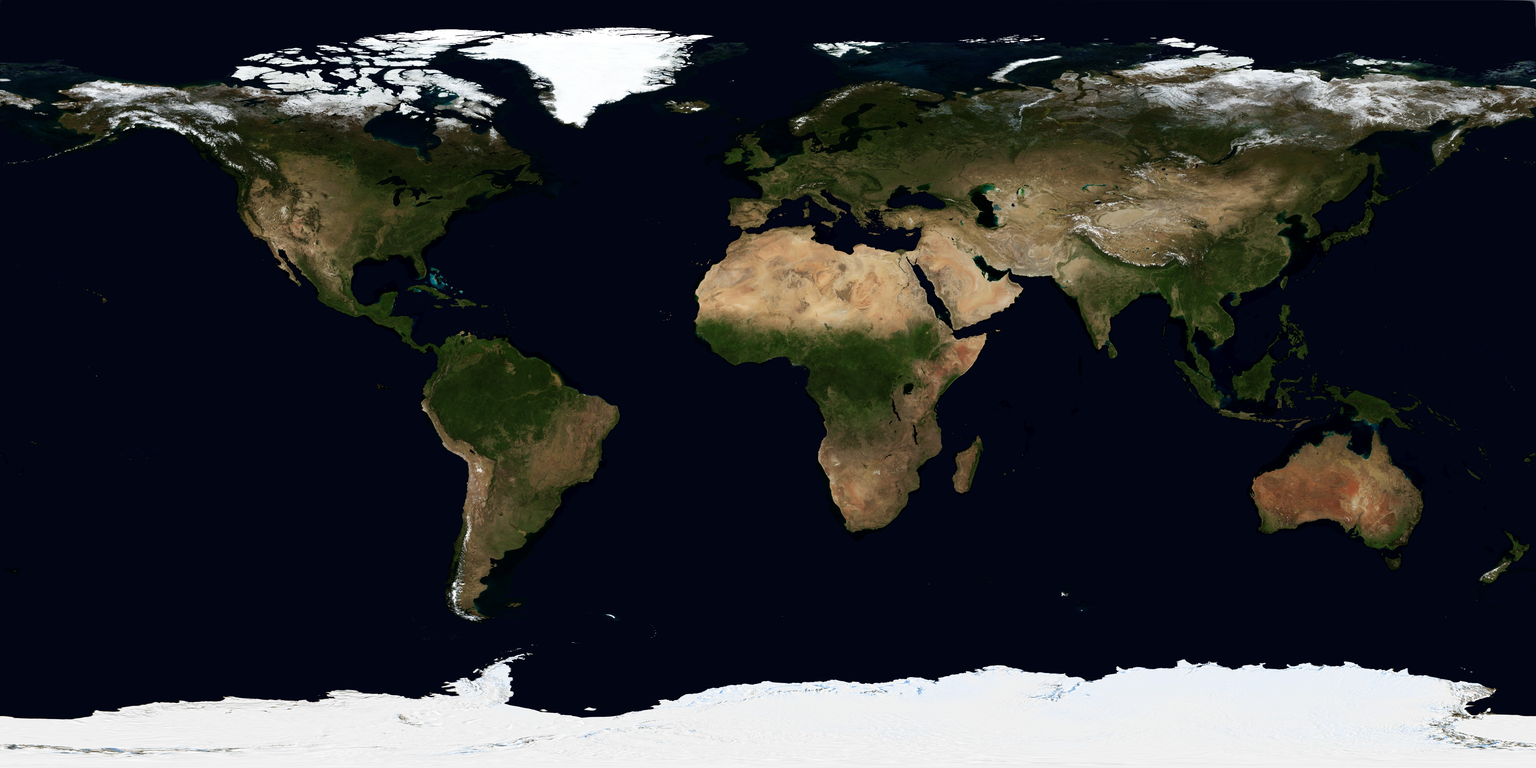
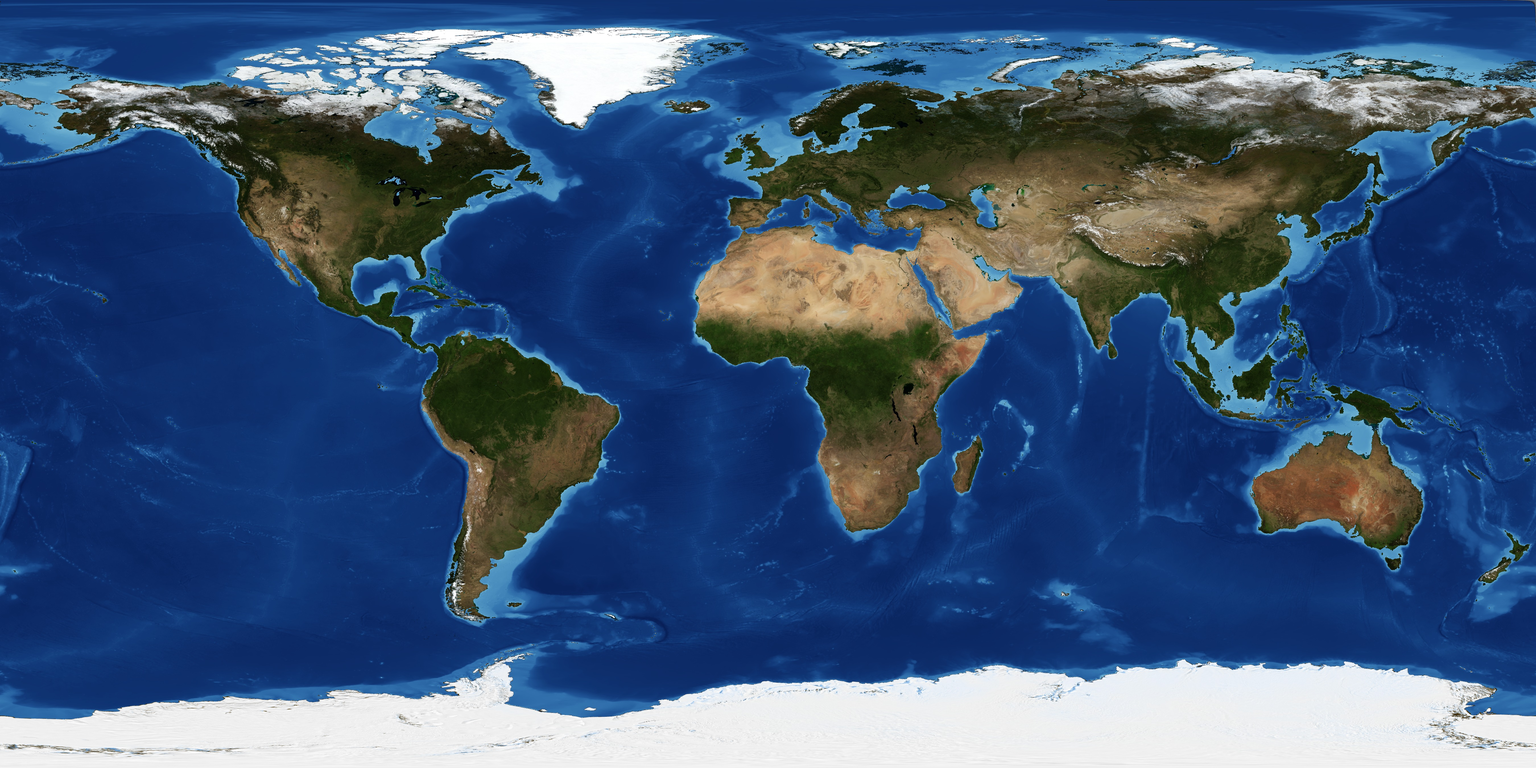
Give the Blue Marble basemap an ocean
The oceans were black because the supplied file has no ocean in it. It is
NASA's land-surface product: over open water it carries a flat fill of
exactly (2, 5, 20), across 58% of the image. Nothing was wrong with the
lighting or the conversion -- there was simply no data there.

The ocean is now painted from the GEBCO bathymetry the viewer already
ships, so its colour follows depth: pale over the shelves and banks,
deep navy over the abyssal plains and trenches. That reads as an ocean
rather than as one flat blue, and it is the project's own data, so no new
dependency and no new download -- the colour is baked into the texture.

The fill is only half the story. Coastal and shelf seas -- the North Sea,
the Channel, the Baltic, the Gulf -- carry real radiance instead, and it
is very dark: luminance 6 to 20, against 27 for the fill itself. A first
pass matching the fill exactly left them black while the water around
them turned blue. They are caught by being both dark and below sea level,
a test with a lot of room in it: the darkest land in the image is Congo
rainforest at 84, and the Netherlands -- the case a bathymetry-only test
would flood -- reads 123 at +4 m and stays land.

Land is untouched, including the shallow-water colour the product does
carry in places like the Bahamas banks. Near-black pixels fall from 58.4%
to 1.0%.

Kept as a script rather than done by hand, so replacing either input is a
re-run.

diff --git a/GeoID_GIS/viewer/earth-manifest.js b/GeoID_GIS/viewer/earth-manifest.js
@@ -1,5 +1,5 @@
     const startupStatusNode = document.getElementById("status");
-    const manifest = {"planet":{"axial_tilt_deg":23.44},"texture":{"path":"assets/blue-marble-Aug8km.jpg?v=20260809","width":5400,"source_page_url":"https://science.nasa.gov/3d-resources/earth-a/"},"elevation":{"path":"/GeoID_Earth/assets/earth_elevation.png?v=20260320c","sample_path":"/GeoID_Earth/assets/earth_elevation_sampler.png?v=20260320c","encoding":"rgb24","width":4096,"height":2048,"min_m":-10930,"max_m":8627,"relief_m":19557,"source_page_url":"https://www.gebco.net/data-products/gridded-bathymetry-data#global"},"geology":{"path":"/GeoID_Earth/assets/earth_geology_sim3292.png?v=20260320c","size":[4096,2048],"description":"Derived bathymetry and topography context layer based on GEBCO 2025 relief."},"geology_layers":[{"id":"gebco-bathy-context","label":"GEBCO Relief Context","path":"/GeoID_Earth/assets/earth_geology_sim3292.png?v=20260320c","description":"Derived bathymetry and topography context overlay based on GEBCO 2025.","source_page_url":"https://www.gebco.net/data-products/gridded-bathymetry-data#global","size":[4096,2048],"default":true}],"geology_interactive":{"feature_path":"/GeoID_Earth/assets/earth_geology_features.json","size":[4096,2048],"feature_count":0},"layers":[{"id":"blue-marble","label":"Blue Marble","path":"assets/blue-marble-Aug8km.jpg?v=20260809","description":"NASA Blue Marble global composite, August, 8 km/px. Equirectangular EPSG:4326 covering -180..180 and -90..90, converted from blue-marble-Aug8km.tif.","source_page_url":"https://visibleearth.nasa.gov/collection/1484/blue-marble","size":[5400,2700],"default":true},{"id":"earth-visible","label":"Earth Surface","path":"/GeoID_Earth/assets/earth_color.jpg?v=1774036444","description":"NASA Earth surface texture basemap.","source_page_url":"https://science.nasa.gov/3d-resources/earth-a/"},{"id":"derived-hillshade","label":"GEBCO Hillshade","path":"/GeoID_Earth/assets/earth_hillshade.jpg?v=20260320c","description":"Derived hillshade generated from the GEBCO 2025 global elevation model.","source_page_url":"https://www.gebco.net/data-products/gridded-bathymetry-data#global","size":[4096,2048]},{"id":"derived-slope","label":"GEBCO Slope","path":"/GeoID_Earth/assets/earth_slope.jpg?v=20260320c","description":"Derived slope basemap generated from the GEBCO 2025 global elevation model.","source_page_url":"https://www.gebco.net/data-products/gridded-bathymetry-data#global","size":[4096,2048]}],"mineral_layers":[],"sources":{"texture_url":"https://assets.science.nasa.gov/content/dam/science/cds/3d/resources/image/earth-(a)/Earth%20(A).jpg","dem_url":"https://dap.ceda.ac.uk/bodc/gebco/global/gebco_2025/ice_surface_elevation/geotiff/gebco_2025_geotiff.zip?download=1","geology_url":"derived/from-gebco-hillshade-and-earth-texture","geology_notes_url":"https://www.gebco.net/data-products/gridded-bathymetry-data#global","geology_dmu_url":"https://www.gebco.net/data-products/gridded-bathymetry-data#global","geology_map_url":"https://www.gebco.net/data-products/gridded-bathymetry-data#global","geology_database_url":"https://www.gebco.net/data-products/gridded-bathymetry-data#global","geology_original_units_citation":"GEBCO Compilation Group (2025) GEBCO 2025 Grid, doi:10.5285/37c52e96-24ea-67ce-e063-7086abc05f29.","tes_albedo_page_url":"https://www.gebco.net/data-products/gridded-bathymetry-data#global","tes_thermal_inertia_page_url":"https://www.gebco.net/data-products/gridded-bathymetry-data#global","themis_day_ir_page_url":"https://www.gebco.net/data-products/gridded-bathymetry-data#global","themis_night_ir_page_url":"https://www.gebco.net/data-products/gridded-bathymetry-data#global","magnetic_anomaly_page_url":"https://science.nasa.gov/earth/"},"seismic":{"path":"/GeoID_Earth/assets/earth_seismic_events.json?v=1774037151","description":"Placeholder catalog; no earthquake catalog is bundled in this Earth workflow.","source_page_url":"https://earthquake.usgs.gov/"}};
+    const manifest = {"planet":{"axial_tilt_deg":23.44},"texture":{"path":"assets/blue-marble-Aug8km.jpg?v=20260809b","width":5400,"source_page_url":"https://science.nasa.gov/3d-resources/earth-a/"},"elevation":{"path":"/GeoID_Earth/assets/earth_elevation.png?v=20260320c","sample_path":"/GeoID_Earth/assets/earth_elevation_sampler.png?v=20260320c","encoding":"rgb24","width":4096,"height":2048,"min_m":-10930,"max_m":8627,"relief_m":19557,"source_page_url":"https://www.gebco.net/data-products/gridded-bathymetry-data#global"},"geology":{"path":"/GeoID_Earth/assets/earth_geology_sim3292.png?v=20260320c","size":[4096,2048],"description":"Derived bathymetry and topography context layer based on GEBCO 2025 relief."},"geology_layers":[{"id":"gebco-bathy-context","label":"GEBCO Relief Context","path":"/GeoID_Earth/assets/earth_geology_sim3292.png?v=20260320c","description":"Derived bathymetry and topography context overlay based on GEBCO 2025.","source_page_url":"https://www.gebco.net/data-products/gridded-bathymetry-data#global","size":[4096,2048],"default":true}],"geology_interactive":{"feature_path":"/GeoID_Earth/assets/earth_geology_features.json","size":[4096,2048],"feature_count":0},"layers":[{"id":"blue-marble","label":"Blue Marble","path":"assets/blue-marble-Aug8km.jpg?v=20260809b","description":"NASA Blue Marble global composite, August, 8 km/px. Equirectangular EPSG:4326 covering -180..180 and -90..90, converted from blue-marble-Aug8km.tif, with the ocean coloured from GEBCO bathymetry.","source_page_url":"https://visibleearth.nasa.gov/collection/1484/blue-marble","size":[5400,2700],"default":true},{"id":"earth-visible","label":"Earth Surface","path":"/GeoID_Earth/assets/earth_color.jpg?v=1774036444","description":"NASA Earth surface texture basemap.","source_page_url":"https://science.nasa.gov/3d-resources/earth-a/"},{"id":"derived-hillshade","label":"GEBCO Hillshade","path":"/GeoID_Earth/assets/earth_hillshade.jpg?v=20260320c","description":"Derived hillshade generated from the GEBCO 2025 global elevation model.","source_page_url":"https://www.gebco.net/data-products/gridded-bathymetry-data#global","size":[4096,2048]},{"id":"derived-slope","label":"GEBCO Slope","path":"/GeoID_Earth/assets/earth_slope.jpg?v=20260320c","description":"Derived slope basemap generated from the GEBCO 2025 global elevation model.","source_page_url":"https://www.gebco.net/data-products/gridded-bathymetry-data#global","size":[4096,2048]}],"mineral_layers":[],"sources":{"texture_url":"https://assets.science.nasa.gov/content/dam/science/cds/3d/resources/image/earth-(a)/Earth%20(A).jpg","dem_url":"https://dap.ceda.ac.uk/bodc/gebco/global/gebco_2025/ice_surface_elevation/geotiff/gebco_2025_geotiff.zip?download=1","geology_url":"derived/from-gebco-hillshade-and-earth-texture","geology_notes_url":"https://www.gebco.net/data-products/gridded-bathymetry-data#global","geology_dmu_url":"https://www.gebco.net/data-products/gridded-bathymetry-data#global","geology_map_url":"https://www.gebco.net/data-products/gridded-bathymetry-data#global","geology_database_url":"https://www.gebco.net/data-products/gridded-bathymetry-data#global","geology_original_units_citation":"GEBCO Compilation Group (2025) GEBCO 2025 Grid, doi:10.5285/37c52e96-24ea-67ce-e063-7086abc05f29.","tes_albedo_page_url":"https://www.gebco.net/data-products/gridded-bathymetry-data#global","tes_thermal_inertia_page_url":"https://www.gebco.net/data-products/gridded-bathymetry-data#global","themis_day_ir_page_url":"https://www.gebco.net/data-products/gridded-bathymetry-data#global","themis_night_ir_page_url":"https://www.gebco.net/data-products/gridded-bathymetry-data#global","magnetic_anomaly_page_url":"https://science.nasa.gov/earth/"},"seismic":{"path":"/GeoID_Earth/assets/earth_seismic_events.json?v=1774037151","description":"Placeholder catalog; no earthquake catalog is bundled in this Earth workflow.","source_page_url":"https://earthquake.usgs.gov/"}};
     window.__earthViewerManifest = manifest;
     window.__earthViewerStartup = {
       checked: false,

diff --git a/GeoID_GIS/services/basemap/build-blue-marble.py b/GeoID_GIS/services/basemap/build-blue-marble.py
@@ -1,0 +1,118 @@
+#!/usr/bin/env python3
+"""Give the Blue Marble basemap an ocean.
+
+The supplied blue-marble-Aug8km.tif is NASA's *land surface* product: it has
+no ocean data at all, just a flat fill of exactly (2, 5, 20) across 58% of the
+image. On the globe that read as a black planet with continents on it.
+
+The ocean is painted back in from the GEBCO bathymetry the viewer already
+ships, so its colour follows depth -- pale over the shelves, deep navy over
+the abyssal plains and trenches -- rather than being one flat blue. Land is
+left exactly as supplied; only pixels matching the fill value are touched.
+
+Re-run after replacing either input:
+
+    python3 GeoID_GIS/services/basemap/build-blue-marble.py
+"""
+from pathlib import Path
+
+import numpy as np
+from PIL import Image
+
+ROOT = Path(__file__).resolve().parents[3]
+SOURCE = ROOT / "GeoID_GIS/viewer/assets/blue-marble-Aug8km.tif"
+BATHY = ROOT / "GeoID_Earth/assets/earth_elevation_sampler.png"
+OUT = ROOT / "GeoID_GIS/viewer/assets/blue-marble-Aug8km.jpg"
+
+# The flat value the land-surface product uses over the open ocean. Matched
+# exactly, because it is a fill rather than a measurement.
+OCEAN_FILL = (2, 5, 20)
+
+# The fill only covers open water. Coastal and shelf seas -- the North Sea, the
+# Channel, the Baltic, the Gulf -- carry real radiance instead, and it is very
+# dark: luminance 6 to 20 against 27 for the fill itself. Left out of the mask
+# they stayed black while the ocean around them turned blue.
+#
+# So those are caught by being both dark and below sea level. The threshold has
+# a lot of room: the darkest land in the image is Congo rainforest at 84, and
+# the Netherlands -- the case that would suffer from a bathymetry-only test --
+# reads 123 and sits at +4 m, so it stays land either way. Anything bright over
+# water, such as sea ice, is water that should keep the colour it was measured
+# with, and does.
+WATER_LUMA_MAX = 60
+WATER_DEPTH_MIN_M = 5
+
+# How the sampler packs metres, from the viewer's manifest.
+ELEV_MIN_M, ELEV_MAX_M = -10930.0, 8627.0
+
+# Depth in metres -> colour. Stops crowd the surface because that is where the
+# interesting structure is: shelves, banks and margins all sit above 200 m,
+# while everything below 3000 m is featureless deep water.
+RAMP = [
+    (0,     (122, 186, 214)),
+    (50,    (86, 156, 198)),
+    (200,   (54, 120, 178)),
+    (1000,  (32, 86, 152)),
+    (3000,  (18, 58, 122)),
+    (6000,  (10, 36, 94)),
+    (11000, (6, 24, 74)),
+]
+
+
+def ocean_colour(depth_m: np.ndarray) -> np.ndarray:
+    """Piecewise-linear ramp over the stops above."""
+    out = np.zeros(depth_m.shape + (3,), dtype=np.float32)
+    stops = [d for d, _ in RAMP]
+    colours = [c for _, c in RAMP]
+    out[depth_m <= stops[0]] = colours[0]
+    out[depth_m >= stops[-1]] = colours[-1]
+    for i in range(len(RAMP) - 1):
+        d0, d1 = stops[i], stops[i + 1]
+        c0, c1 = np.array(colours[i], np.float32), np.array(colours[i + 1], np.float32)
+        band = (depth_m > d0) & (depth_m < d1)
+        if not band.any():
+            continue
+        t = ((depth_m[band] - d0) / (d1 - d0)).astype(np.float32)[:, None]
+        out[band] = c0 + (c1 - c0) * t
+    return out
+
+
+def main() -> None:
+    marble = Image.open(SOURCE).convert("RGB")
+    width, height = marble.size
+    rgb = np.asarray(marble).astype(np.uint8)
+
+    fill = (
+        (rgb[:, :, 0] == OCEAN_FILL[0])
+        & (rgb[:, :, 1] == OCEAN_FILL[1])
+        & (rgb[:, :, 2] == OCEAN_FILL[2])
+    )
+
+    # Bathymetry is coarser than the image; ocean colour is smooth, so a plain
+    # bilinear resample is enough.
+    bathy = Image.open(BATHY).convert("RGB").resize((width, height), Image.BILINEAR)
+    packed = np.asarray(bathy).astype(np.float64)
+    norm = (packed[:, :, 0] * 65536 + packed[:, :, 1] * 256 + packed[:, :, 2]) / 16777215.0
+    metres = ELEV_MIN_M + norm * (ELEV_MAX_M - ELEV_MIN_M)
+
+    luma = rgb.astype(np.int32).sum(axis=2)
+    coastal = (metres < -WATER_DEPTH_MIN_M) & (luma < WATER_LUMA_MAX)
+    water = fill | coastal
+    print(f"{SOURCE.name}: {width}x{height}")
+    print(f"  open-ocean fill {100 * fill.mean():.1f}%"
+          f" + dark coastal water {100 * (coastal & ~fill).mean():.1f}%"
+          f" = {100 * water.mean():.1f}% painted")
+
+    # Clamped at the shoreline: where the two sources disagree about the coast,
+    # a pixel the image calls water but GEBCO calls hillside becomes the
+    # shallowest blue rather than reaching off the end of the ramp.
+    depth = np.clip(-metres, 0.0, 11000.0)
+
+    out = rgb.astype(np.float32)
+    out[water] = ocean_colour(depth[water])
+    Image.fromarray(out.astype(np.uint8)).save(OUT, quality=92, progressive=True)
+    print(f"wrote {OUT.relative_to(ROOT)}")
+
+
+if __name__ == "__main__":
+    main()
